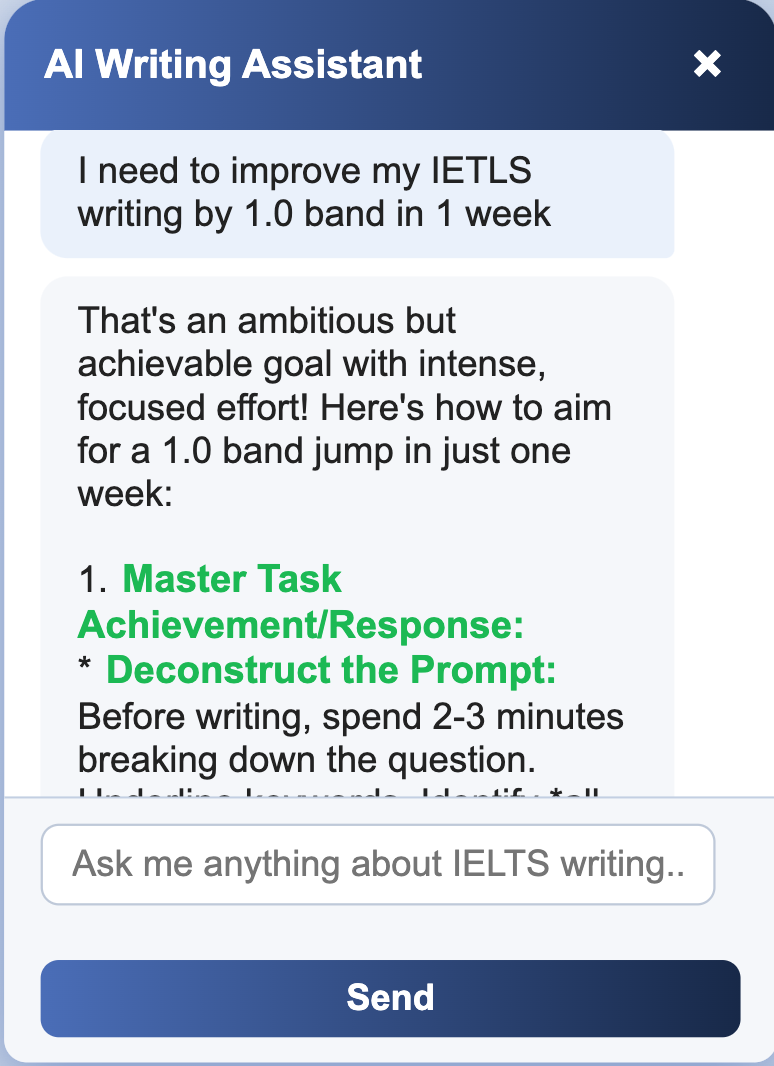
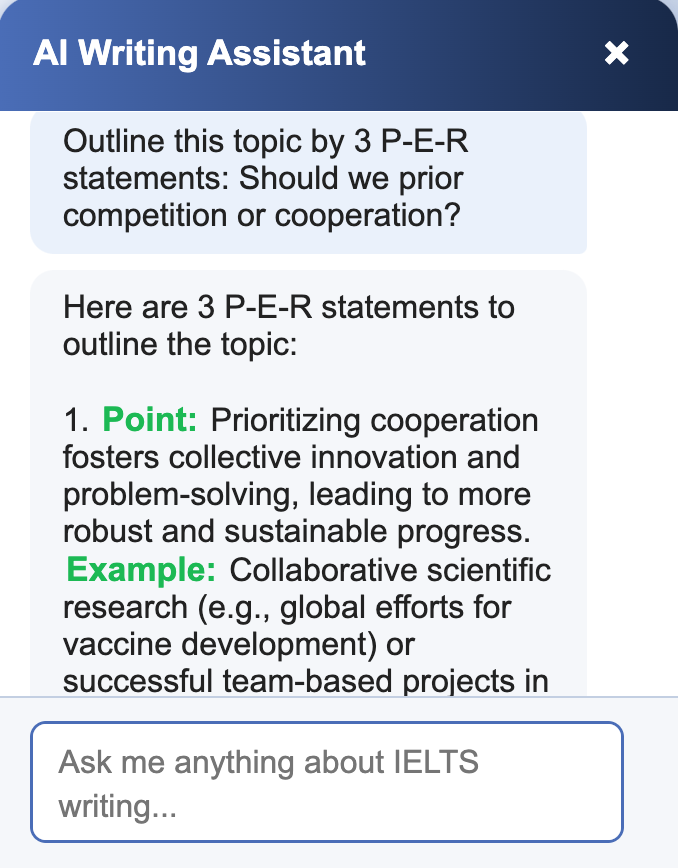
Add word counter

Changed region(s): [[0.0, 0.0, 1.0, 1.0], [0.8982, 0.0311, 0.9292, 0.0933], [0.9912, 0.0, 1.0, 0.0311]]

diff --git a/public/app.js b/public/app.js
@@ -12,6 +12,7 @@ const scoreLabel = document.getElementById('score-label');
 const correctionOutput = document.getElementById('correction-output');
 const modelAnswerOutput = document.getElementById('model-answer-output');
 const submitBtn = document.getElementById('submit-btn');
+const wordCountDiv = document.getElementById('word-count');
 
 // Loader tips
 const loaderTips = [
@@ -200,9 +201,35 @@ function setFormDisabled(disabled) {
   }
 }
 
+function getWordCount(text) {
+  return text.trim().split(/\s+/).filter(Boolean).length;
+}
+
+function updateWordCount() {
+  const part = partSelect.value || '1';
+  const minWords = part === '2' ? 250 : 150;
+  const count = getWordCount(answerInput.value);
+  wordCountDiv.textContent = `${count}/${minWords}`;
+  wordCountDiv.style.color = count < minWords ? '#e74c3c' : '#1db954';
+}
+
+answerInput.addEventListener('input', updateWordCount);
+partSelect.addEventListener('change', updateWordCount);
+// Initialize on load
+updateWordCount();
+
 // Form submission
 form.addEventListener('submit', async function(e) {
   e.preventDefault();
+  const part = partSelect.value || '1';
+  const minWords = part === '2' ? 250 : 150;
+  const count = getWordCount(answerInput.value);
+  if (count < minWords) {
+    const proceed = window.confirm(`Your answer is below the recommended word count (${minWords} words). Are you sure you want to proceed?`);
+    if (!proceed) {
+      return;
+    }
+  }
   setFormDisabled(true);
   resultSection.classList.remove('hidden');
   scoreLabel.textContent = '';
@@ -214,9 +241,7 @@ form.addEventListener('submit', async function(e) {
   setTimeout(startLoaderTipRotation, 50); // ensure DOM is updated
 
   const band = bandSelect.value;
-  const part = partSelect.value;
   const question = questionInput.value;
-  const answer = answerInput.value;
   let imageBase64 = '';
   if (imageInput.files[0]) {
     const file = imageInput.files[0];
@@ -232,7 +257,7 @@ form.addEventListener('submit', async function(e) {
     const res = await fetch('/evaluate', {
       method: 'POST',
       headers: { 'Content-Type': 'application/json' },
-      body: JSON.stringify({ band, part, question, answer, image: imageBase64 })
+      body: JSON.stringify({ band, part, question, answer: answerInput.value, image: imageBase64 })
     });
     const data = await res.json();
     // Animate gauge

diff --git a/public/index.html b/public/index.html
@@ -56,6 +56,7 @@
       <div class="input-group">
         <label for="answer-input">Your Answer:</label>
         <textarea id="answer-input" placeholder="Paste or type your answer here..." rows="6" required></textarea>
+        <div id="word-count" style="margin-top:0.3em;font-weight:600;font-size:1.02em;"></div>
       </div>
       <button type="submit" id="submit-btn">Evaluate</button>
     </form>
@@ -82,7 +83,9 @@
     </div>
     <div id="chatbox-messages" class="chatbox-messages"></div>
     <form id="chatbox-form" class="chatbox-form">
-      <input type="text" id="chatbox-input" placeholder="Ask me anything about IELTS writing..." autocomplete="off" required />
+      <div class="chatbox-input-wrapper">
+        <textarea id="chatbox-input" placeholder="Ask me anything about IELTS writing..." autocomplete="off" required rows="2" maxlength="1000"></textarea>
+      </div>
       <button type="submit">Send</button>
     </form>
   </div>

diff --git a/public/style.css b/public/style.css
@@ -380,14 +380,28 @@ input[type="file"] {
   background: #f5f7fa;
   border-radius: 0 0 10px 10px;
 }
-#chatbox-input {
+.chatbox-input-wrapper {
   flex: 1;
+  display: flex;
+  align-items: flex-end;
+  margin-right: 0.7em;
+}
+#chatbox-input {
+  width: 100%;
+  min-height: 2.2em;
+  max-height: 8.5em;
   border: 1.5px solid #bfc9d9;
   border-radius: 8px;
   padding: 0.5em 0.8em;
   font-size: 1rem;
   background: #fff;
-  margin-right: 0.7em;
+  resize: none;
+  overflow-y: auto;
+  line-height: 1.4;
+  font-family: inherit;
+  box-sizing: border-box;
+  word-break: break-word;
+  white-space: pre-wrap;
   transition: border 0.2s;
 }
 #chatbox-input:focus {
@@ -466,4 +480,13 @@ p7 {
   display: inline;
   background: none;
   margin: 0 0.1em;
+}
+
+.word-count, #word-count {
+  transition: color 0.3s;
+  margin-top: 0.3em;
+  font-weight: 600;
+  font-size: 1.02em;
+  min-height: 1.2em;
+  text-align: right;
 }

diff --git a/public/chatbox.js b/public/chatbox.js
@@ -74,4 +74,11 @@ chatboxForm.addEventListener('submit', async (e) => {
     chatboxMessages.removeChild(chatboxMessages.lastChild);
     appendMessage('<span style="color:#e74c3c">Error: Could not get response.</span>', false);
   }
+});
+
+// Auto-expand textarea from 2 to 5 lines
+chatboxInput.addEventListener('input', function() {
+  this.style.height = 'auto';
+  const maxHeight = 8.5 * 16; // 5 lines * 1.7em (approx 16px per em)
+  this.style.height = Math.min(this.scrollHeight, maxHeight) + 'px';
 }); 

diff --git a/README.md b/README.md
@@ -34,7 +34,7 @@ IELTS Enhancer is your personal, AI-powered writing coach designed to help you r
       <td><img src="imgsrc/demo1.png" alt="Question Notation" width="120" height="230"/></td>
       <td><img src="imgsrc/demo2.png" alt="Evaluate Answer" width="120" height="230"/></td>
       <td><img src="imgsrc/demo3.png" alt="Grading Answer" width="120" height="230"/></td>
-      <td><img src="imgsrc/demo4.png" alt="Correcting Answer" width="120" height="230"/></td>
+      <td><img src="imgsrc/demo4.jpeg" alt="Correcting Answer" width="120" height="230"/></td>
       <td><img src="imgsrc/demo5.png" alt="Aimed Answer" width="120" height="230"/></td>
       <td><img src="imgsrc/demo6.png" alt="Addtitional Feebacks" width="120" height="230"/></td>
     </tr>
